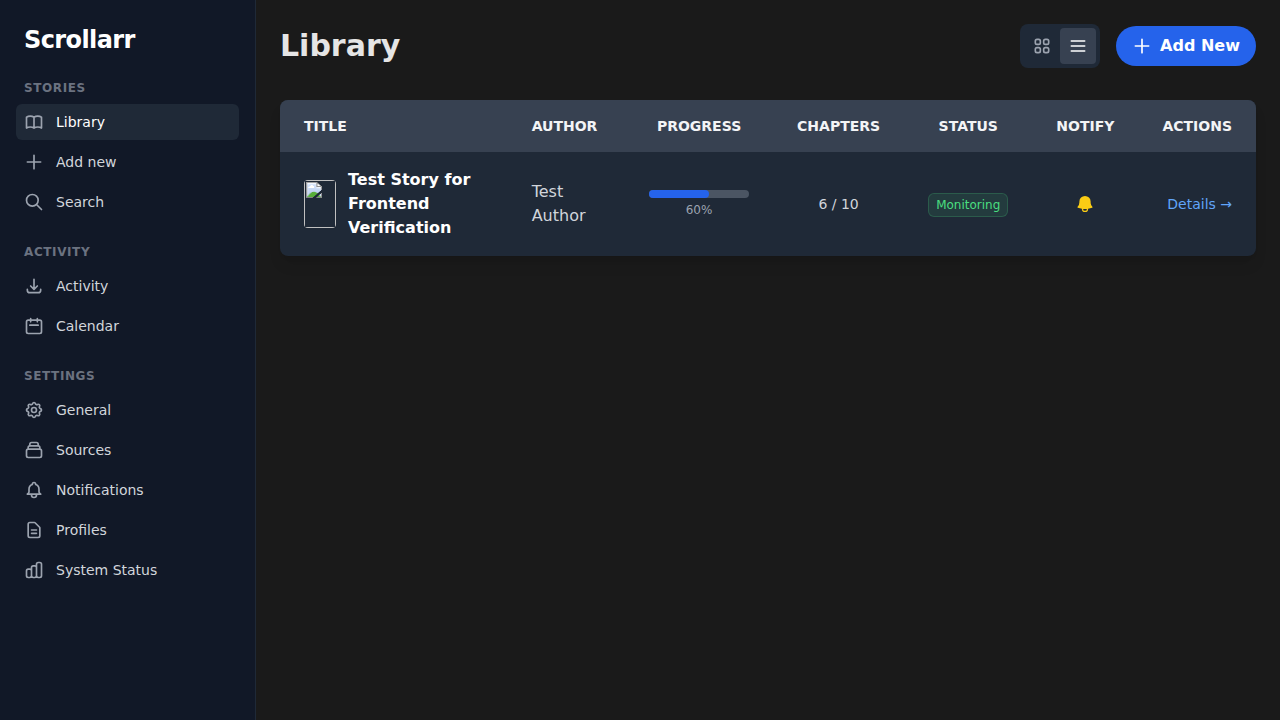
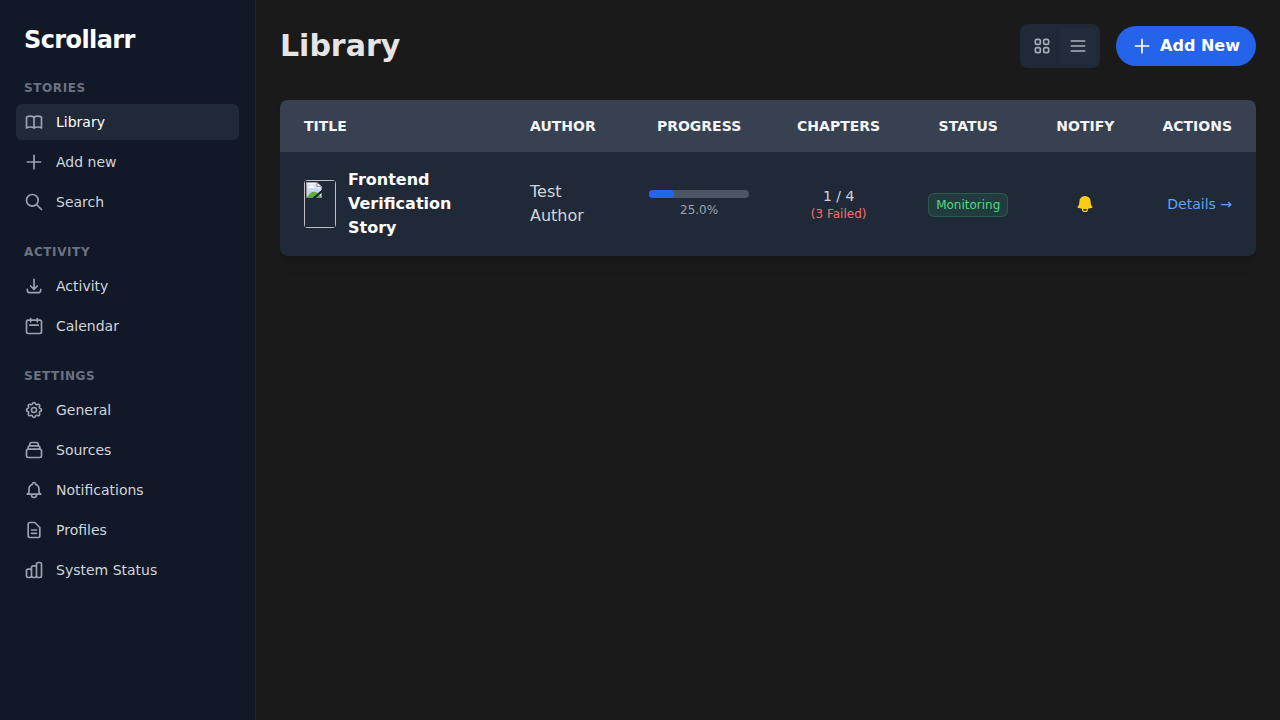
Add failed chapters count to library list view and story details
- Modified `app.py` to calculate `failed` chapter count in `read_root` (for index page), `get_progress` (for polling), and `story_details` (for story page).
- Updated `templates/index.html` to display the failed chapter count in the "Chapters" column of the list view if > 0, styled in red. Updated polling logic to refresh this value.
- Updated `templates/story_details.html` to add a new "Failed" stats box in the statistics grid, also styled in red if > 0.
- Verified changes with `test_database.py` (backend logic) and Playwright script (frontend UI).

diff --git a/templates/index.html b/templates/index.html
@@ -98,6 +98,9 @@
                     </td>
                     <td class="px-6 py-4 text-center text-sm">
                         <span id="list-chapter-count-{{ story.id }}">{{ story.downloaded_chapters }} / {{ story.total_chapters }}</span>
+                        <div id="list-chapter-failed-{{ story.id }}" class="text-xs text-red-400 font-medium {{ 'hidden' if story.failed_chapters == 0 else '' }}">
+                            {% if story.failed_chapters > 0 %}({{ story.failed_chapters }} Failed){% endif %}
+                        </div>
                     </td>
                     <td class="px-6 py-4 text-center">
                         <span id="list-status-{{ story.id }}" class="inline-flex items-center rounded-md px-2 py-1 text-xs font-medium ring-1 ring-inset {{ 'bg-green-400/10 text-green-400 ring-green-400/20' if story.status == 'Monitoring' else 'bg-gray-400/10 text-gray-400 ring-gray-400/20' }}">
@@ -226,11 +229,21 @@
                     const listBar = document.getElementById(`list-progress-bar-${story.id}`);
                     const listText = document.getElementById(`list-progress-text-${story.id}`);
                     const listCount = document.getElementById(`list-chapter-count-${story.id}`);
+                    const listFailed = document.getElementById(`list-chapter-failed-${story.id}`);
                     const listStatus = document.getElementById(`list-status-${story.id}`);
 
                     if (listBar) listBar.style.width = `${story.progress}%`;
                     if (listText) listText.innerText = `${story.progress}%`;
                     if (listCount) listCount.innerText = `${story.downloaded} / ${story.total}`;
+
+                    if (listFailed) {
+                        if (story.failed > 0) {
+                            listFailed.innerText = `(${story.failed} Failed)`;
+                            listFailed.classList.remove('hidden');
+                        } else {
+                            listFailed.classList.add('hidden');
+                        }
+                    }
 
                     if (listStatus) {
                         listStatus.innerText = story.status;

diff --git a/templates/story_details.html b/templates/story_details.html
@@ -48,7 +48,7 @@
                 </div>
 
                 <!-- Stats -->
-                <div class="grid grid-cols-3 gap-4 mb-6 text-sm bg-gray-900/50 p-4 rounded-lg border border-gray-700">
+                <div class="grid grid-cols-4 gap-4 mb-6 text-sm bg-gray-900/50 p-4 rounded-lg border border-gray-700">
                     <div>
                         <span class="block text-gray-400 uppercase text-xs font-semibold">Total Volumes</span>
                         <span class="text-white text-lg font-bold">{{ stats.total_volumes }}</span>
@@ -60,6 +60,10 @@
                     <div>
                          <span class="block text-gray-400 uppercase text-xs font-semibold">Downloaded</span>
                          <span class="text-white text-lg font-bold">{{ stats.downloaded_chapters }}</span>
+                    </div>
+                    <div>
+                         <span class="block text-gray-400 uppercase text-xs font-semibold">Failed</span>
+                         <span class="{{ 'text-red-500' if stats.failed_chapters > 0 else 'text-white' }} text-lg font-bold">{{ stats.failed_chapters }}</span>
                     </div>
                 </div>
 

diff --git a/app.py b/app.py
@@ -166,12 +166,14 @@ async def read_root(request: Request, db: Session = Depends(get_db)):
     for story in stories:
         total = len(story.chapters)
         downloaded = sum(1 for c in story.chapters if c.status == 'downloaded')
+        failed = sum(1 for c in story.chapters if c.status == 'failed')
         progress = (downloaded / total * 100) if total > 0 else 0
 
         # Add attributes for the template
         story.progress = round(progress, 1)
         story.total_chapters = total
         story.downloaded_chapters = downloaded
+        story.failed_chapters = failed
         stories_with_progress.append(story)
 
     return templates.TemplateResponse("index.html", {"request": request, "stories": stories_with_progress})
@@ -484,6 +486,7 @@ async def get_progress(db: Session = Depends(get_db)):
     for story in stories:
         total = len(story.chapters)
         downloaded = sum(1 for c in story.chapters if c.status == 'downloaded')
+        failed = sum(1 for c in story.chapters if c.status == 'failed')
         progress = (downloaded / total * 100) if total > 0 else 0
 
         result.append({
@@ -491,6 +494,7 @@ async def get_progress(db: Session = Depends(get_db)):
             "title": story.title,
             "progress": round(progress, 1),
             "downloaded": downloaded,
+            "failed": failed,
             "total": total,
             "status": story.status
         })
@@ -590,7 +594,8 @@ async def story_details(story_id: int, request: Request, db: Session = Depends(g
     stats = {
         'total_volumes': len(volumes),
         'total_chapters': len(chapters),
-        'downloaded_chapters': sum(1 for c in chapters if c.status == 'downloaded')
+        'downloaded_chapters': sum(1 for c in chapters if c.status == 'downloaded'),
+        'failed_chapters': sum(1 for c in chapters if c.status == 'failed')
     }
 
     # Get all profiles
